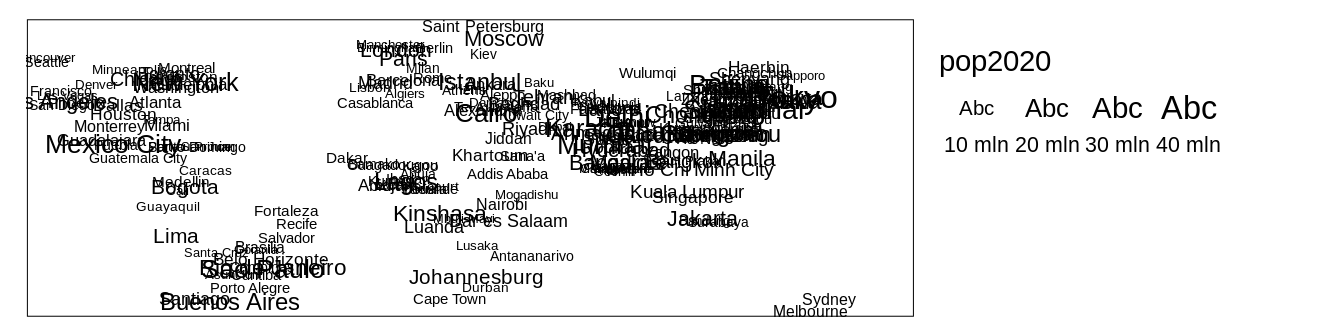
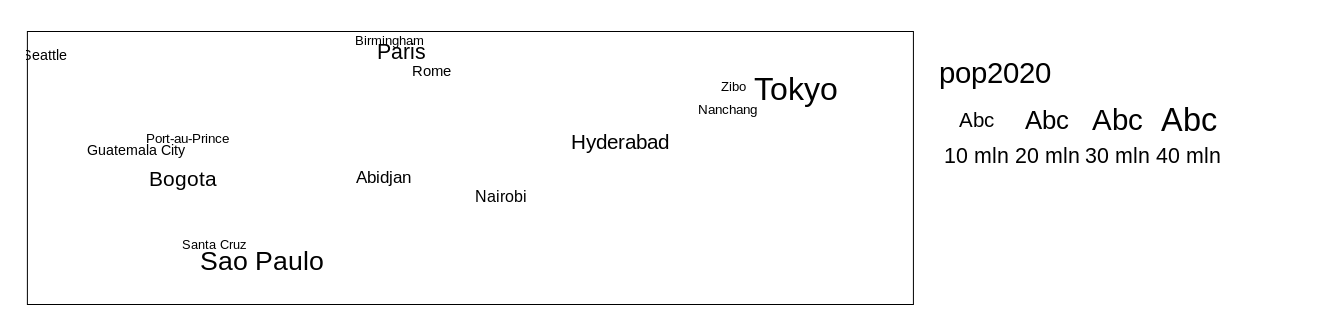
Deploy commit: adds text sizes text 5ab4cffe88ae21219c6706983c16b7acb14163d6

diff --git a/layers.html b/layers.html
@@ -24,7 +24,7 @@
 <meta name="author" content="Martijn Tennekes, Jakub Nowosad" />
 
 
-<meta name="date" content="2020-11-02" />
+<meta name="date" content="2020-11-03" />
 
   <meta name="viewport" content="width=device-width, initial-scale=1" />
   <meta name="apple-mobile-web-app-capable" content="yes" />
@@ -842,10 +842,17 @@ FIGURE 5.11: Example of a map where lines’ widths represent values of the corr
 Lines’ thickness can be change using the <code>scale</code> argument, where the value of 1 is the default, and increasing this values increases lines’ thickness.
 Also, similarly to the last example of the <code>tm_symbols</code> above, it is possible to modify the lines width legend, by changing its title (<code>title.lwd</code>), categories (<code>lwd.legend</code>), and their names (<code>lwd.legend.labels</code>).</p>
 <!-- how about trying some transportation examples here (and expanding them)? -->
-<p>(Figure <a href="layers.html#fig:tmtextsize">5.12</a>)</p>
-<div class="sourceCode" id="cb34"><pre class="sourceCode r"><code class="sourceCode r"><span id="cb34-1"><a href="layers.html#cb34-1"></a><span class="kw">tm_shape</span>(metro) <span class="op">+</span></span>
-<span id="cb34-2"><a href="layers.html#cb34-2"></a><span class="st">  </span><span class="kw">tm_text</span>(<span class="dt">text =</span> <span class="st">&quot;name&quot;</span>, <span class="dt">size =</span> <span class="st">&quot;pop2020&quot;</span>) <span class="op">+</span></span>
-<span id="cb34-3"><a href="layers.html#cb34-3"></a><span class="st">  </span><span class="kw">tm_layout</span>(<span class="dt">legend.outside =</span> <span class="ot">TRUE</span>)</span></code></pre></div>
+<p>Text labels have a role to name features on a map or just to highlight some of them.
+Usually, the size of text labels is consistent for the same spatial objects. <!--ref to the text label layer section-->
+However, text labels can be also used to represent the values of some numerical variables.
+Figure <a href="layers.html#fig:tmtextsize">5.12</a> shows an example, in which text labels show names of different metropolitan areas, while their sizes are related to the populations of the areas.
+This allows us to not only locate different metropolitan areas on a map but also differentiate between less populous areas (e.g., Seattle) and more populous ones (e.g., Tokyo).</p>
+<div class="sourceCode" id="cb34"><pre class="sourceCode r"><code class="sourceCode r"><span id="cb34-1"><a href="layers.html#cb34-1"></a><span class="co"># to update later</span></span>
+<span id="cb34-2"><a href="layers.html#cb34-2"></a><span class="kw">set.seed</span>(<span class="dv">222</span>)</span>
+<span id="cb34-3"><a href="layers.html#cb34-3"></a>metro2 =<span class="st"> </span>metro[<span class="kw">sample</span>(<span class="dv">1</span><span class="op">:</span><span class="kw">nrow</span>(metro), <span class="dv">30</span>), ]</span>
+<span id="cb34-4"><a href="layers.html#cb34-4"></a><span class="kw">tm_shape</span>(metro2) <span class="op">+</span></span>
+<span id="cb34-5"><a href="layers.html#cb34-5"></a><span class="st">  </span><span class="kw">tm_text</span>(<span class="dt">text =</span> <span class="st">&quot;name&quot;</span>, <span class="dt">size =</span> <span class="st">&quot;pop2020&quot;</span>) <span class="op">+</span></span>
+<span id="cb34-6"><a href="layers.html#cb34-6"></a><span class="st">  </span><span class="kw">tm_layout</span>(<span class="dt">legend.outside =</span> <span class="ot">TRUE</span>)</span></code></pre></div>
 <div class="figure" style="text-align: center"><span id="fig:tmtextsize"></span>
 <img src="05-layers_files/figure-html/tmtextsize-1.png" alt="Example of a map where text sizes represent populations of the given metropolitan areas." width="672" />
 <p class="caption">

diff --git a/index.html b/index.html
@@ -24,7 +24,7 @@
 <meta name="author" content="Martijn Tennekes, Jakub Nowosad" />
 
 
-<meta name="date" content="2020-11-02" />
+<meta name="date" content="2020-11-03" />
 
   <meta name="viewport" content="width=device-width, initial-scale=1" />
   <meta name="apple-mobile-web-app-capable" content="yes" />
@@ -217,12 +217,12 @@ code span.wa { color: #60a0b0; font-weight: bold; font-style: italic; } /* Warni
 <div id="header">
 <h1 class="title">Elegant and informative maps with <strong>tmap</strong></h1>
 <p class="author"><em>Martijn Tennekes, Jakub Nowosad</em></p>
-<p class="date"><em>2020-11-02</em></p>
+<p class="date"><em>2020-11-03</em></p>
 </div>
 <div id="welcome" class="section level1 unnumbered">
 <h1>Welcome</h1>
 <p>This is the online home of <em>Elegant and informative maps with <strong>tmap</strong></em>, a book on geospatial data visualization with the R-package tmap.</p>
-<p>This version of the book was built on GH Actions on 2020-11-02.</p>
+<p>This version of the book was built on GH Actions on 2020-11-03.</p>
 <div id="how-to-contribute" class="section level2 unnumbered">
 <h2>How to contribute?</h2>
 

diff --git a/animations.html b/animations.html
@@ -24,7 +24,7 @@
 <meta name="author" content="Martijn Tennekes, Jakub Nowosad" />
 
 
-<meta name="date" content="2020-11-02" />
+<meta name="date" content="2020-11-03" />
 
   <meta name="viewport" content="width=device-width, initial-scale=1" />
   <meta name="apple-mobile-web-app-capable" content="yes" />

diff --git a/geodata.html b/geodata.html
@@ -24,7 +24,7 @@
 <meta name="author" content="Martijn Tennekes, Jakub Nowosad" />
 
 
-<meta name="date" content="2020-11-02" />
+<meta name="date" content="2020-11-03" />
 
   <meta name="viewport" content="width=device-width, initial-scale=1" />
   <meta name="apple-mobile-web-app-capable" content="yes" />

diff --git a/goodmaps.html b/goodmaps.html
@@ -24,7 +24,7 @@
 <meta name="author" content="Martijn Tennekes, Jakub Nowosad" />
 
 
-<meta name="date" content="2020-11-02" />
+<meta name="date" content="2020-11-03" />
 
   <meta name="viewport" content="width=device-width, initial-scale=1" />
   <meta name="apple-mobile-web-app-capable" content="yes" />

diff --git a/interactive.html b/interactive.html
@@ -24,7 +24,7 @@
 <meta name="author" content="Martijn Tennekes, Jakub Nowosad" />
 
 
-<meta name="date" content="2020-11-02" />
+<meta name="date" content="2020-11-03" />
 
   <meta name="viewport" content="width=device-width, initial-scale=1" />
   <meta name="apple-mobile-web-app-capable" content="yes" />

diff --git a/intro.html b/intro.html
@@ -24,7 +24,7 @@
 <meta name="author" content="Martijn Tennekes, Jakub Nowosad" />
 
 
-<meta name="date" content="2020-11-02" />
+<meta name="date" content="2020-11-03" />
 
   <meta name="viewport" content="width=device-width, initial-scale=1" />
   <meta name="apple-mobile-web-app-capable" content="yes" />

diff --git a/layout.html b/layout.html
@@ -24,7 +24,7 @@
 <meta name="author" content="Martijn Tennekes, Jakub Nowosad" />
 
 
-<meta name="date" content="2020-11-02" />
+<meta name="date" content="2020-11-03" />
 
   <meta name="viewport" content="width=device-width, initial-scale=1" />
   <meta name="apple-mobile-web-app-capable" content="yes" />

diff --git a/multiples.html b/multiples.html
@@ -24,7 +24,7 @@
 <meta name="author" content="Martijn Tennekes, Jakub Nowosad" />
 
 
-<meta name="date" content="2020-11-02" />
+<meta name="date" content="2020-11-03" />
 
   <meta name="viewport" content="width=device-width, initial-scale=1" />
   <meta name="apple-mobile-web-app-capable" content="yes" />

diff --git a/nutshell.html b/nutshell.html
@@ -24,7 +24,7 @@
 <meta name="author" content="Martijn Tennekes, Jakub Nowosad" />
 
 
-<meta name="date" content="2020-11-02" />
+<meta name="date" content="2020-11-03" />
 
   <meta name="viewport" content="width=device-width, initial-scale=1" />
   <meta name="apple-mobile-web-app-capable" content="yes" />

diff --git a/options.html b/options.html
@@ -24,7 +24,7 @@
 <meta name="author" content="Martijn Tennekes, Jakub Nowosad" />
 
 
-<meta name="date" content="2020-11-02" />
+<meta name="date" content="2020-11-03" />
 
   <meta name="viewport" content="width=device-width, initial-scale=1" />
   <meta name="apple-mobile-web-app-capable" content="yes" />

diff --git a/othertypes.html b/othertypes.html
@@ -24,7 +24,7 @@
 <meta name="author" content="Martijn Tennekes, Jakub Nowosad" />
 
 
-<meta name="date" content="2020-11-02" />
+<meta name="date" content="2020-11-03" />
 
   <meta name="viewport" content="width=device-width, initial-scale=1" />
   <meta name="apple-mobile-web-app-capable" content="yes" />
